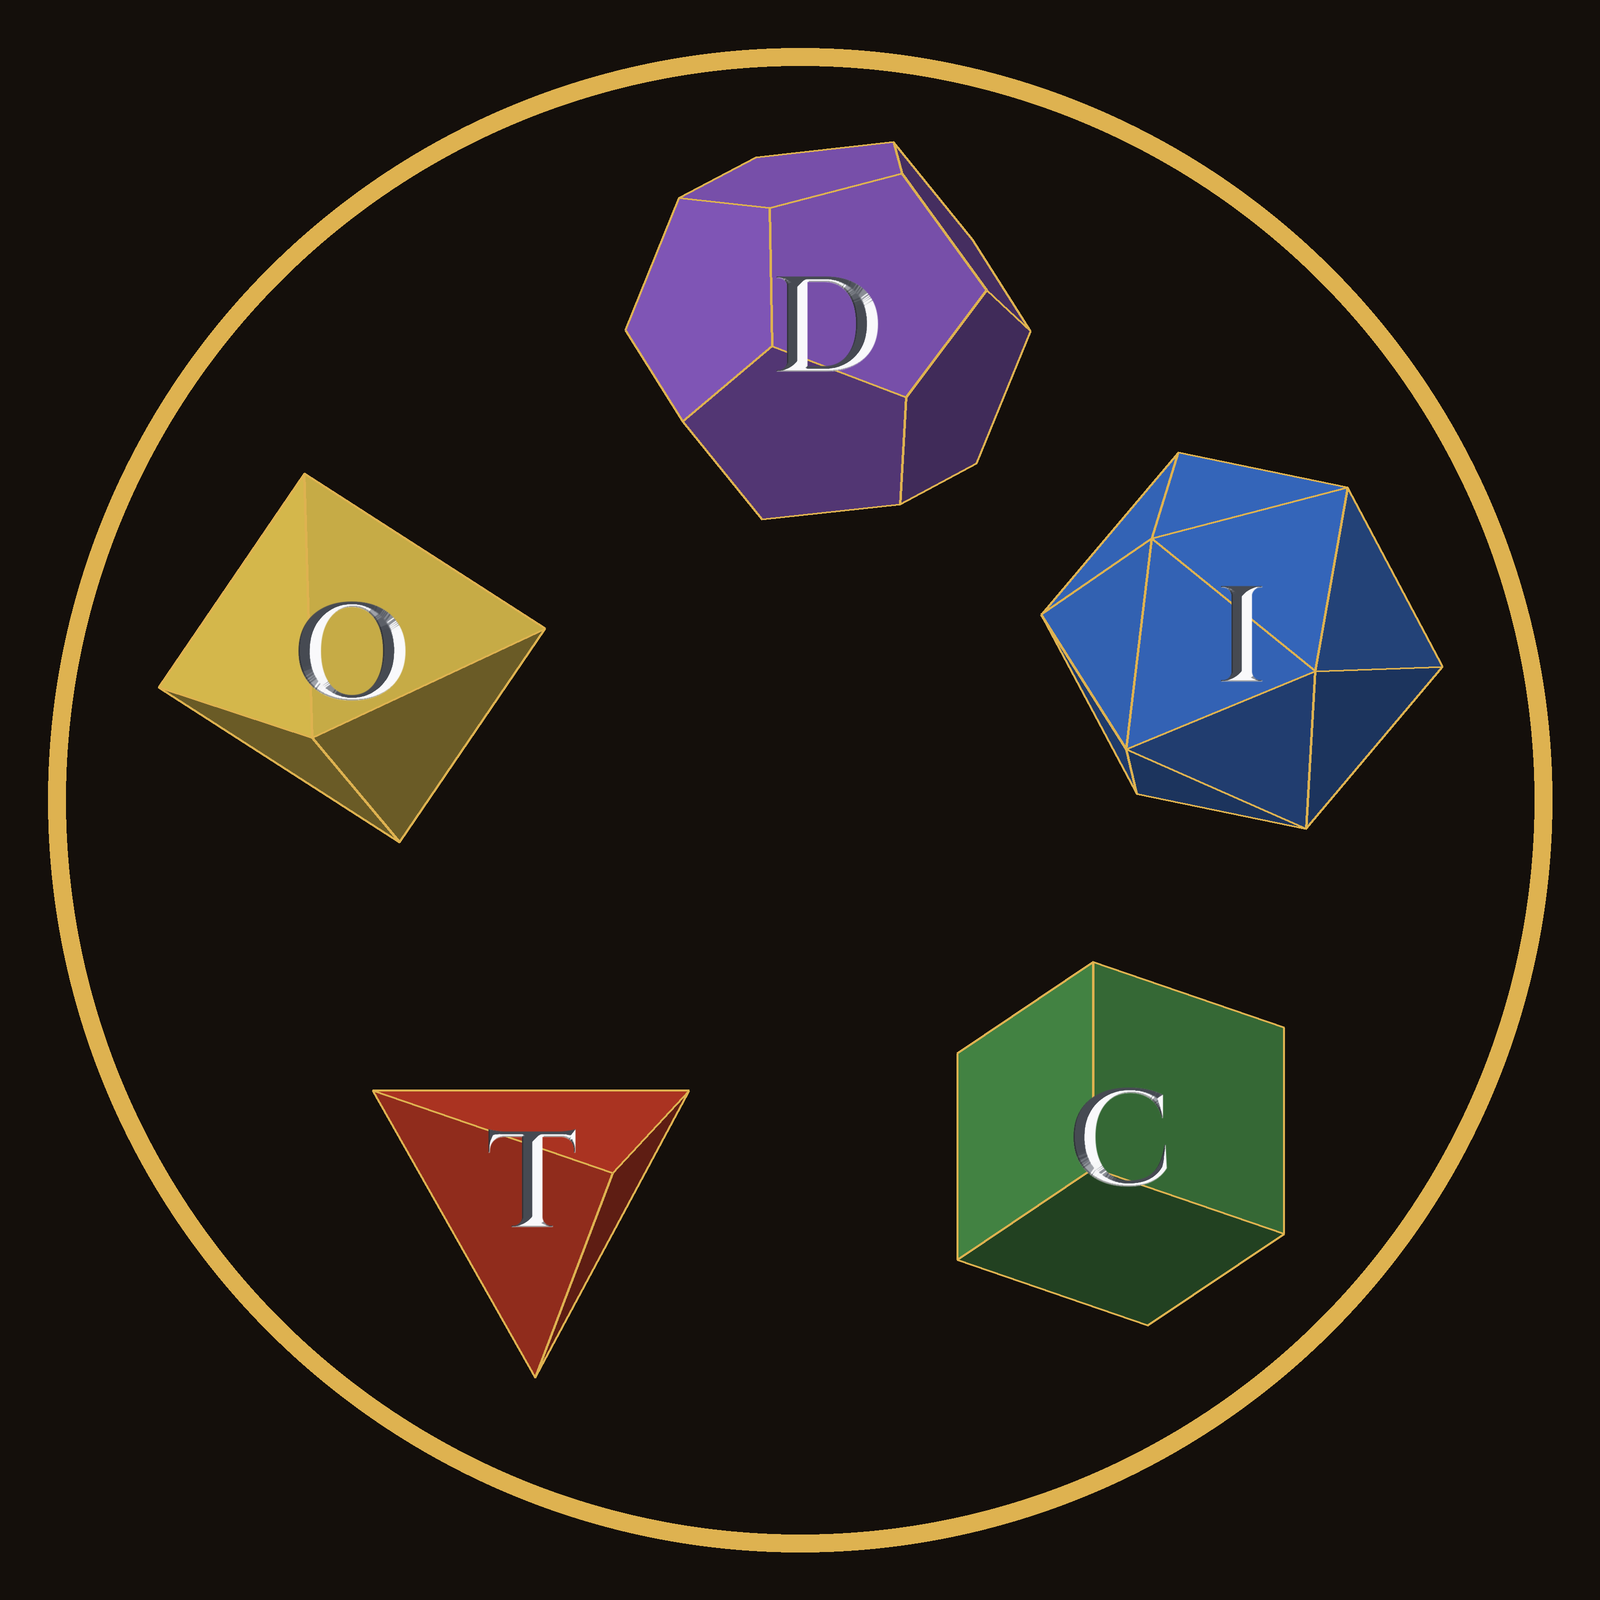
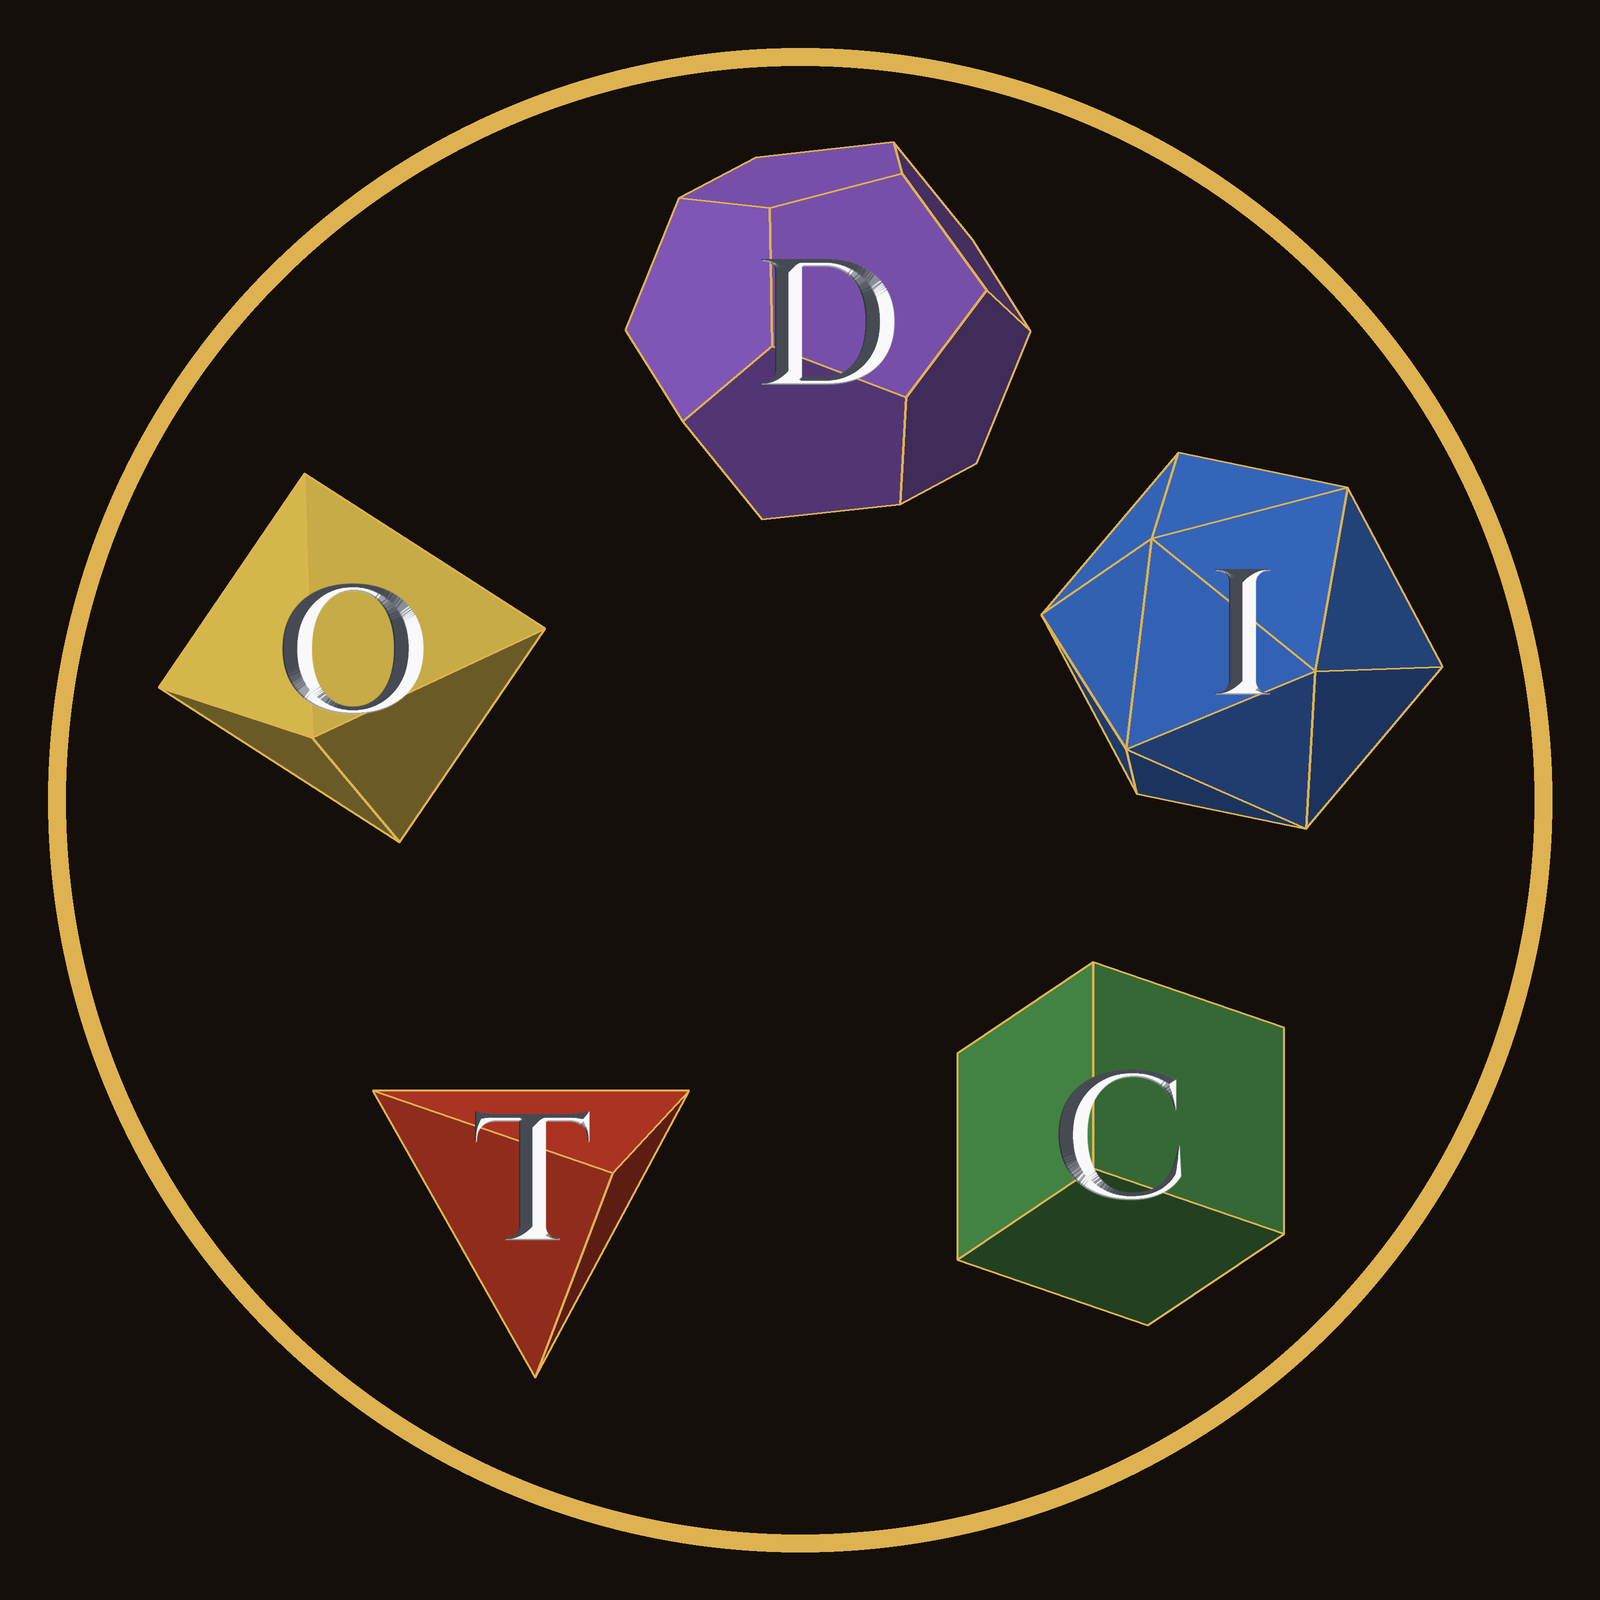
Emblem forms iteration: thin Penrose rhombi pointing into the gaps; larger initials (DICTO)

diff --git a/studies/2026-10-22-dicto-square/emblem_forms.py b/studies/2026-10-22-dicto-square/emblem_forms.py
@@ -1,6 +1,6 @@
 # DICTO emblem, forms iteration (DICTO 2026-10-22): the emblem's gold ring, with each mark replaced by its
 # Platonic form (D-I-C-T-O key) carrying its V-cut platinum initial, at the mark's measured place.
-# STAR=1 adds, as a variant, five golden Penrose rhombi (the fat 72-degree rhombs) meeting at the centre as a star,
+# STAR=1 adds, as a variant, five golden Penrose rhombi (the thin 36-degree rhombs, DICTO: the fat ones too fat) meeting at the centre as a star,
 # V-cut and laid with platinum leaf like the initials.
 import os, math, numpy as np
 from PIL import Image, ImageDraw, ImageFont
@@ -31,16 +31,16 @@ for k,ang in PLACE.items():
         d.polygon(pts,fill=col); d.line(pts+[pts[0]],fill=EDGE,width=2*SS)
 # carved platinum initials, centred on each form's place
 ci=src.index("from scipy import ndimage"); ce=src.index("CARVE={ch")
-exec(src[ci:ce].replace("int(0.075*W)","int(0.085*W)").replace("box=int(0.12*W)","box=int(0.13*W)"))
+exec(src[ci:ce].replace("int(0.075*W)","int(0.112*W)").replace("box=int(0.12*W)","box=int(0.17*W)"))
 for k,ang in PLACE.items():
     tile,mask,box=carved(k)
     x=c0+DIST*math.cos(math.radians(ang))*sc; y=c0-DIST*math.sin(math.radians(ang))*sc
     img.paste(tile,(int(x-box/2),int(y-box/2)),mask)
 if STAR:
-    side=0.2*RR; gap=0.012*RR
+    side=0.24*RR; gap=0.008*RR
     m=Image.new('L',(W,W),0); dm=ImageDraw.Draw(m)
     for j in range(5):
-        th=math.radians(90+72*j); u=np.exp(1j*(th-math.radians(36))); v=np.exp(1j*(th+math.radians(36)))
+        th=math.radians(90+36+72*j); u=np.exp(1j*(th-math.radians(18))); v=np.exp(1j*(th+math.radians(18)))   # thin rhombus, 36 deg at the centre, pointing into the gaps
         Z=np.array([0,u,u+v,v])*side; cz=Z.mean(); Z=cz+(Z-cz)*(1-gap/side*2.2)   # small gap between rhombi
         dm.polygon([(c0+z.real, c0-z.imag) for z in Z],fill=255)
     M=np.array(m)/255.0; ins=M>0.5
@@ -53,7 +53,7 @@ if STAR:
     img.paste(Image.fromarray(np.clip(rgb,0,255).astype(np.uint8)),(0,0),Image.fromarray((ndimage.gaussian_filter(M,0.6)*255).astype(np.uint8)))
     d=ImageDraw.Draw(img)
     for j in range(5):   # gold edge round each cut
-        th=math.radians(90+72*j); u=np.exp(1j*(th-math.radians(36))); v=np.exp(1j*(th+math.radians(36)))
+        th=math.radians(90+36+72*j); u=np.exp(1j*(th-math.radians(18))); v=np.exp(1j*(th+math.radians(18)))   # thin rhombus, 36 deg at the centre, pointing into the gaps
         Z=np.array([0,u,u+v,v])*side; cz=Z.mean(); Z=cz+(Z-cz)*(1-gap/side*2.2)
         P=[(c0+z.real, c0-z.imag) for z in Z]; d.line(P+[P[0]],fill=GOLD,width=2*SS)
 img=img.resize((N,N),Image.LANCZOS); img.save('dicto-emblem-forms%s.png'%('-star' if STAR else '')); print('ok')

diff --git a/studies/2026-10-22-dicto-square/README.md b/studies/2026-10-22-dicto-square/README.md
@@ -7,4 +7,4 @@ DICTO's idea (2026-10-22): a word square like SATOR AREPO TENET OPERA ROTAS, wit
 - dicto_square.py -> dicto-square.png (1800 px): solids on a square lattice (spacing 1), each scaled to the same circumsphere (radius 0.44), seen straight on in true grid squares. Colours of Plato's elements: fire tetrahedron red, air octahedron yellow, water icosahedron blue, earth cube green, the dodecahedron (the whole, aether) violet. Each form carries its Roman (Trajan-style) initial, V-cut into the form and gilded with platinum leaf (lit wall and shadowed wall), set in Cinzel (OFL, Cinzel.ttf + OFL-Cinzel.txt). No outer lettering (DICTO).
 
 ## Emblem, forms iteration (DICTO 2026-10-22)
-emblem_forms.py -> dicto-emblem-forms.png; STAR=1 -> dicto-emblem-forms-star.png. The emblem's gold ring with each mark replaced by its form and V-cut platinum initial, at the mark's measured angle (D 86.6°, I 19.8°, C −47.0°, T −124.7°, O 162.4°) and distance (0.625 of the ring radius) from dicto-logo.png. Variant: five golden Penrose rhombi (fat, 72° corners at the centre) V-cut and laid with platinum leaf, one pointing towards each form. An additional iteration; the emblem itself is unchanged.
+emblem_forms.py -> dicto-emblem-forms.png; STAR=1 -> dicto-emblem-forms-star.png. The emblem's gold ring with each mark replaced by its form and V-cut platinum initial, at the mark's measured angle (D 86.6°, I 19.8°, C −47.0°, T −124.7°, O 162.4°) and distance (0.625 of the ring radius) from dicto-logo.png. Variant: five golden Penrose rhombi (thin, 36° corners at the centre; DICTO found the fat ones too fat) V-cut and laid with platinum leaf, each pointing into a gap between two forms. Initials enlarged (DICTO). An additional iteration; the emblem itself is unchanged.
